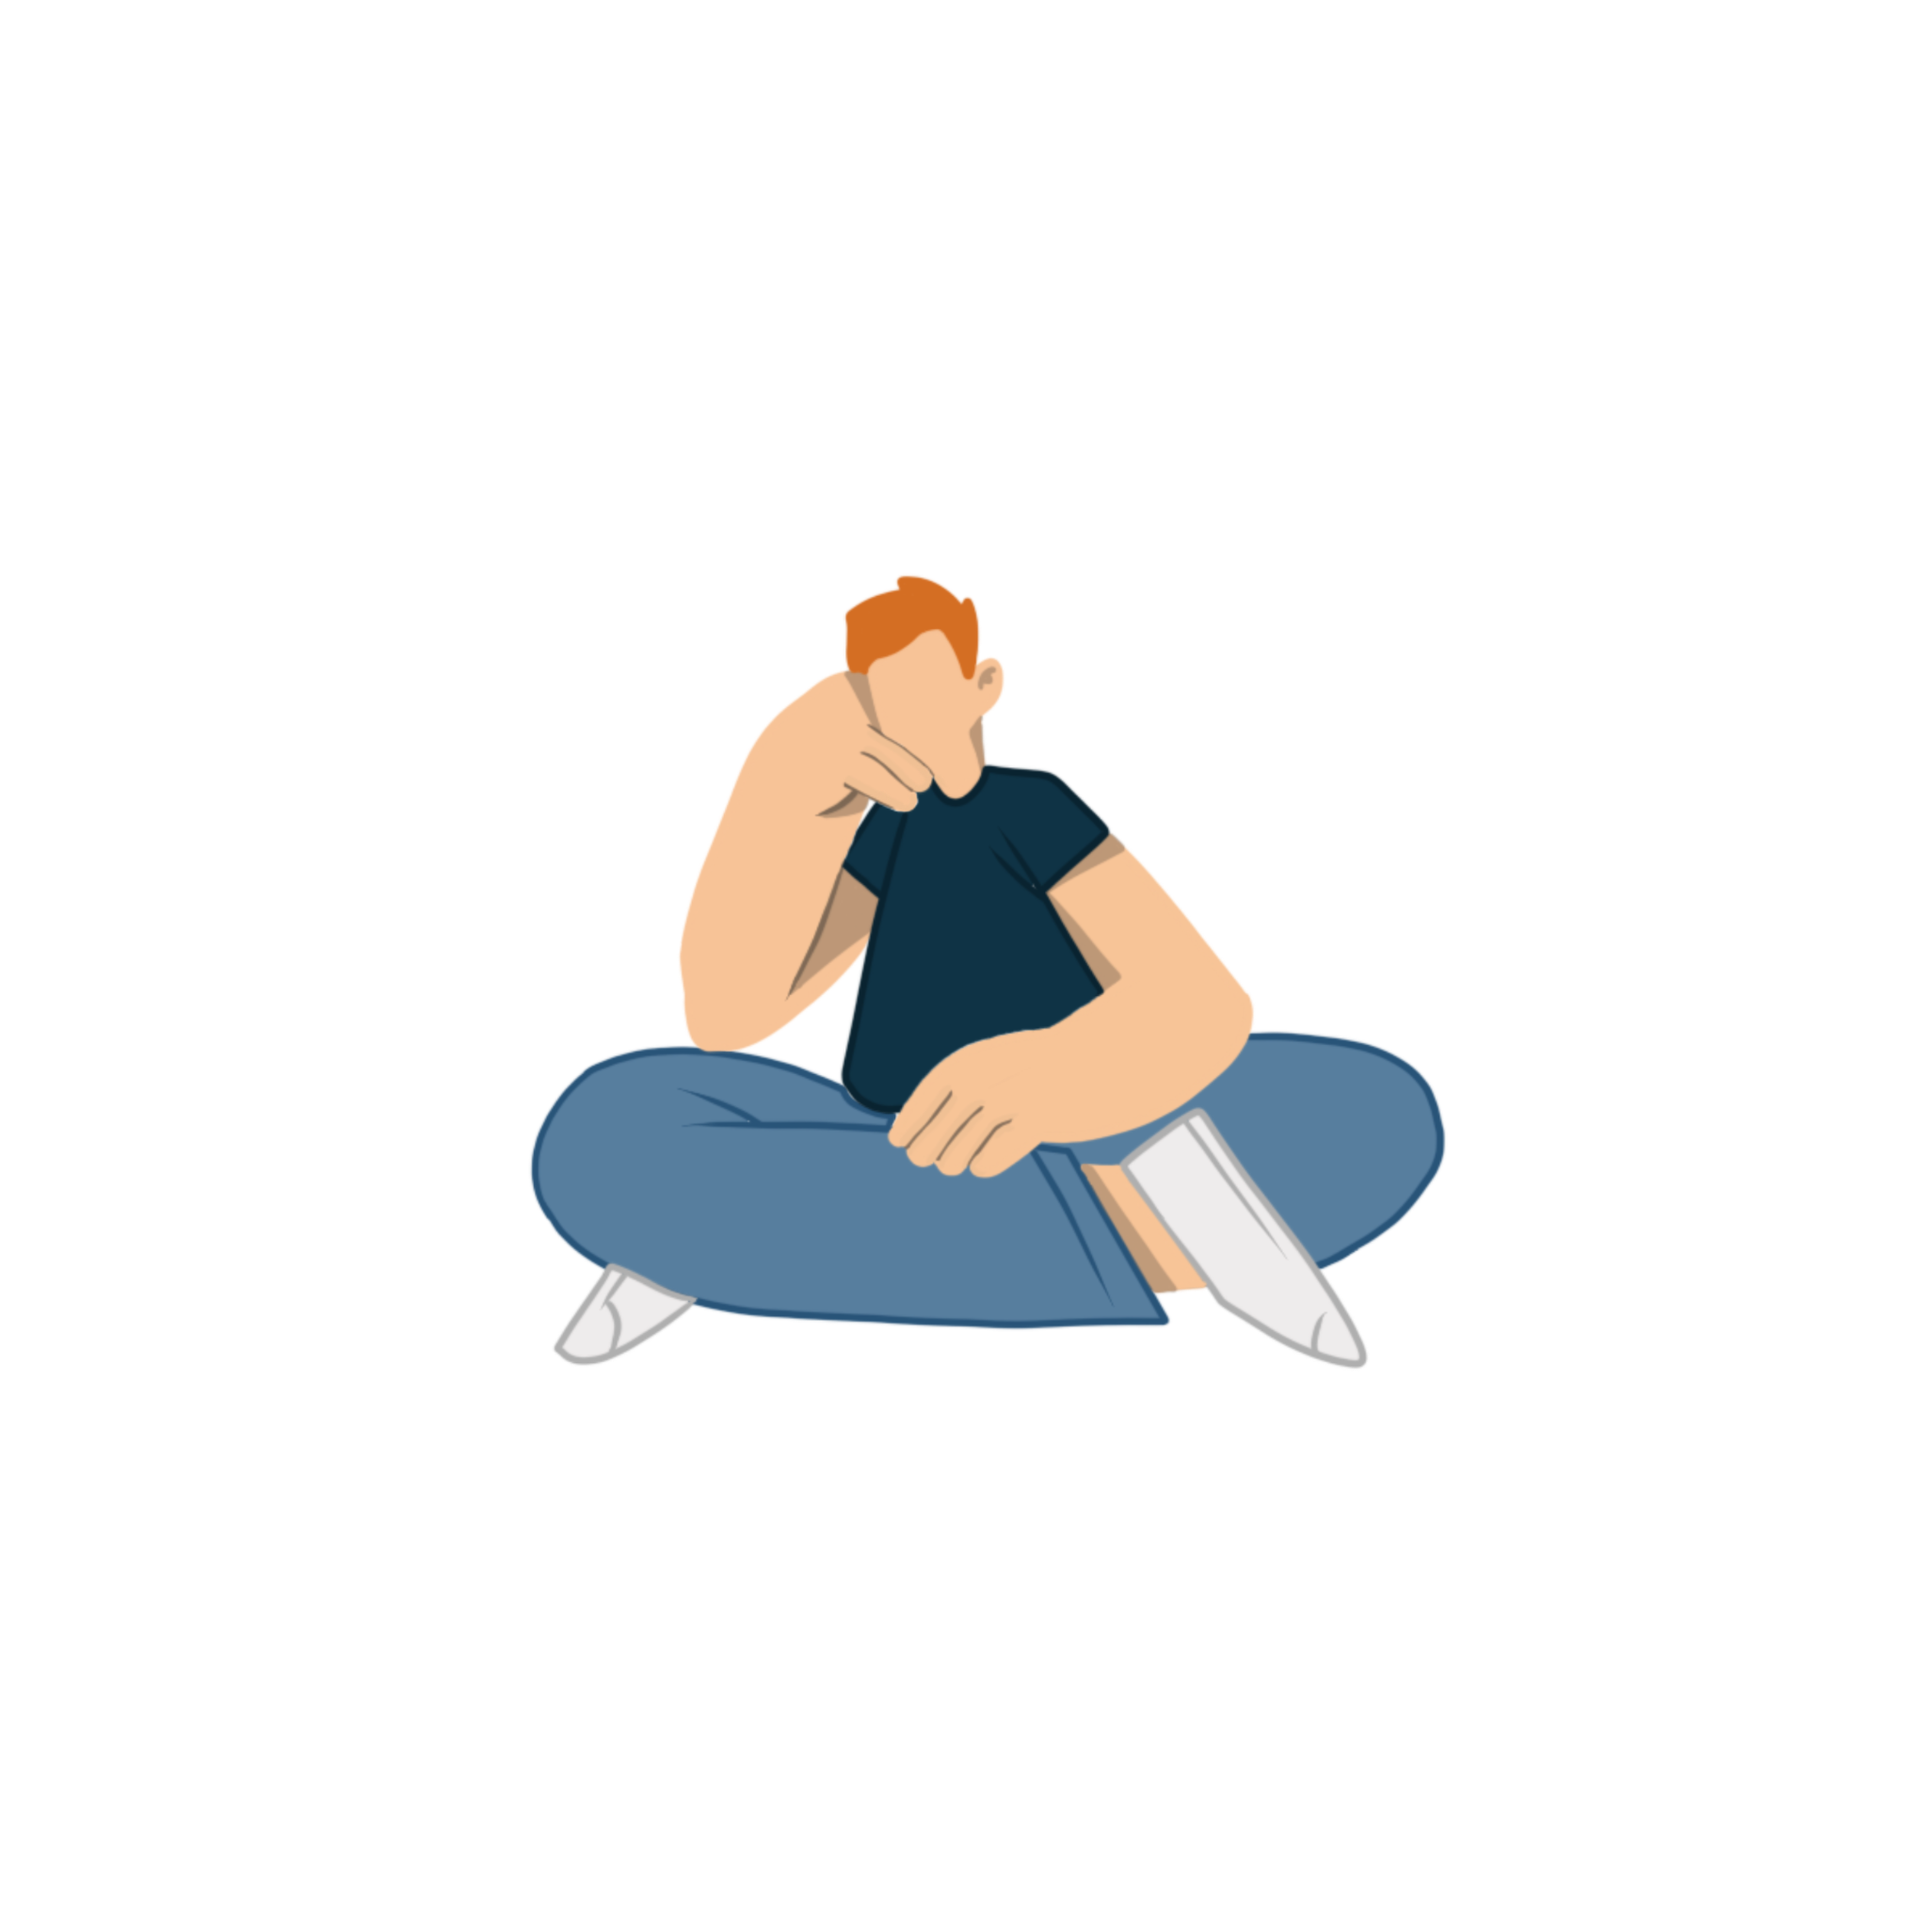
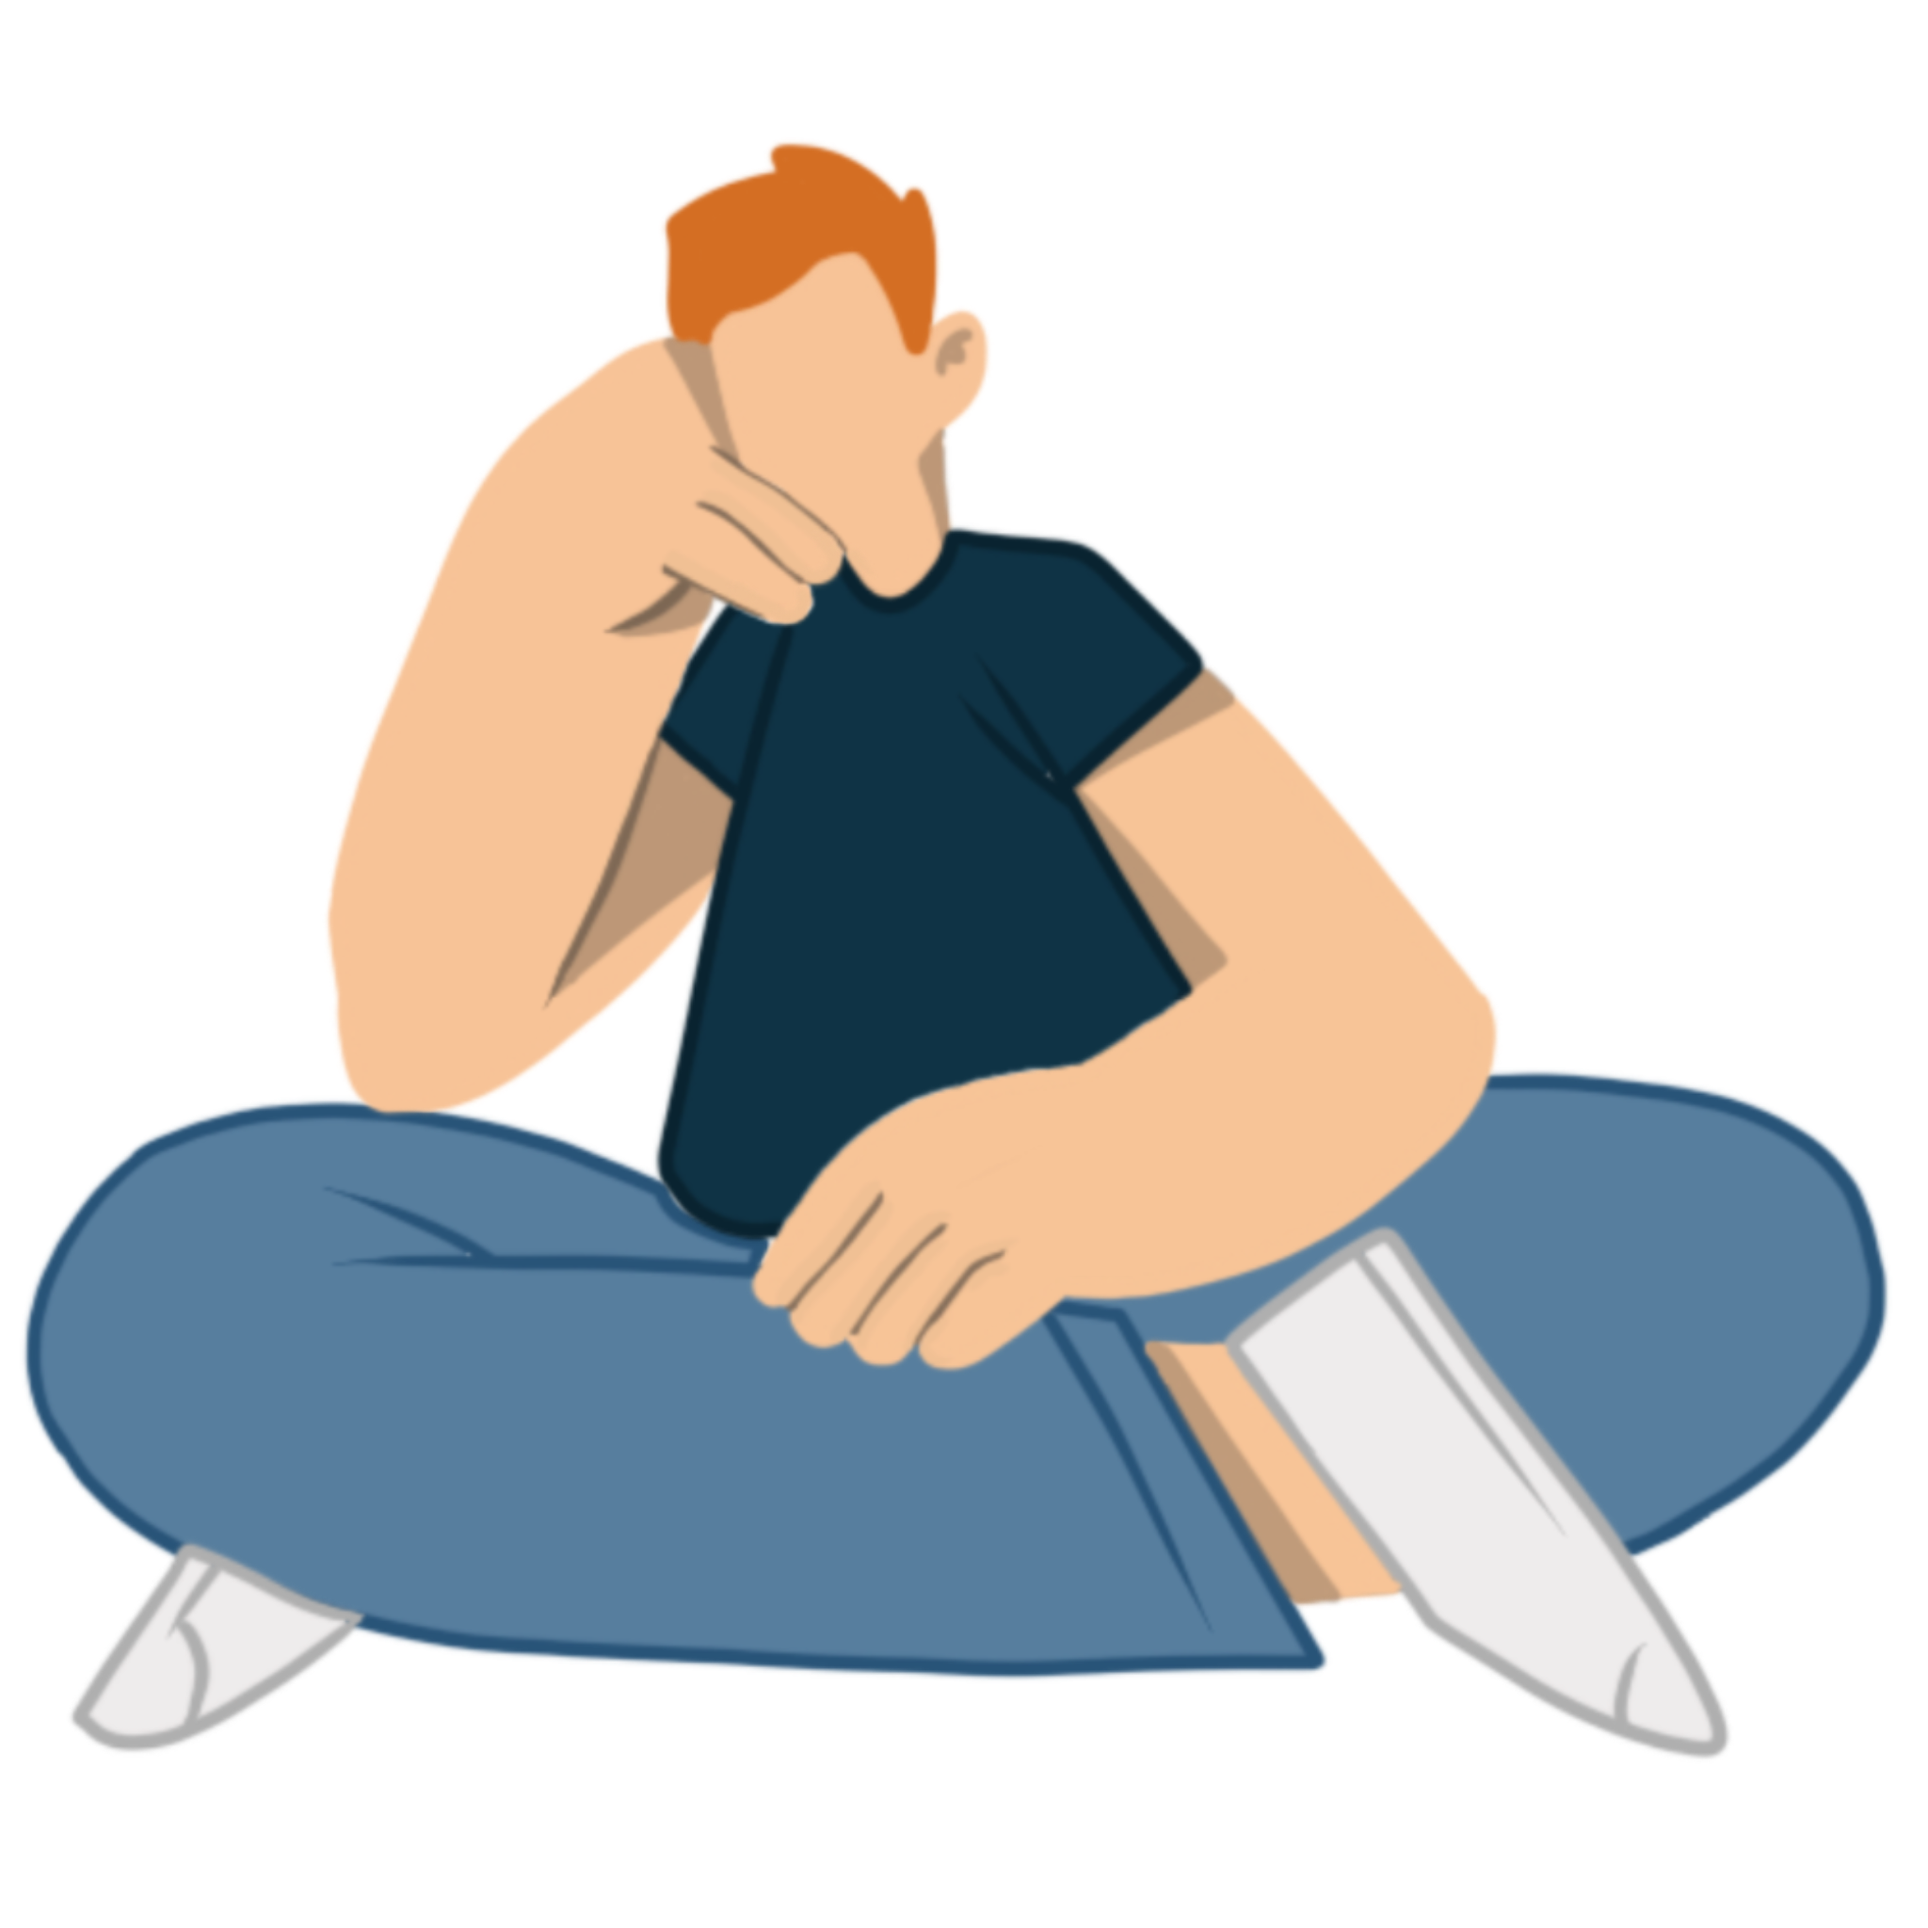
resized image and styling sectionOne

diff --git a/style.css b/style.css
@@ -11,8 +11,6 @@
     flex-direction: row;
     justify-content: space-between;
     padding: 20px;
-
-
 }
 
 .menu{
@@ -26,7 +24,6 @@
     gap: 10px;
     transition: all 0.5s;
     font-size: 20px;
-
 }
 
 .menuLinks:hover {
@@ -35,25 +32,47 @@
 
 
 body{
-    background-color:black;
+    background-color: black;
+}
 
+
+.imageSectionOne{
+    display: flex;
+    flex-direction: column;
+    max-width: 800px;
 }
 
 .sectionOne{
     display: grid;
-    grid-template-columns: 1fr 1fr;
-    background-color: white;
+    grid-template-columns: 1fr 2fr;
+    background-color:none;
     padding: 20px;
-    border: 30px;
-
+    box-sizing: border-box; 
+    border: 2px solid white; 
 }
 
 .innerSectionOne{
     display: flex;
     flex-direction: column;
-    color: black;
-    
+    color: white;
+}
 
+h1{
+    font-family: "Bebas Neue", serif;
+}
 
+.aboutButton{
+    background-color: white;
+    text-decoration-color: black;
+    text-decoration: none;
+    transition: all 0.5s;
+    padding: 10px;
 
 }
+
+.aboutButton:hover{
+    background-color: greenyellow;
+    text-decoration-color: black;
+    text-decoration: none;
+}
+

diff --git a/index.html b/index.html
@@ -27,12 +27,15 @@
     <main>
         
         <div class="sectionOne">
-            <img src="images/joshImage.png" alt="Illustration of a ginger man sat crossed-leg" />
-                <div class="innerSectionOne">
-                    <h1>About Me</h1>
-                    <p>Lorum Ipsom Lorum Ipsom Lorum Ipsom</p>
-                    <a class="aboutButton" href="#">Read More</a>
-                </div>
+
+            <div class="imageSectionOne">
+                <img src="images/joshImage.png" alt="Illustration of a ginger man sat crossed-leg" />
+            </div>
+            <div class="innerSectionOne">
+                <h1>About Me</h1>
+                <p>Lorum Ipsom Lorum Ipsom Lorum Ipsom</p>
+                <a class="aboutButton" href="#">Read More</a>
+            </div>
 
 
         </div>
